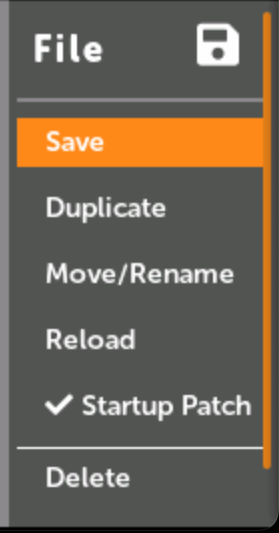
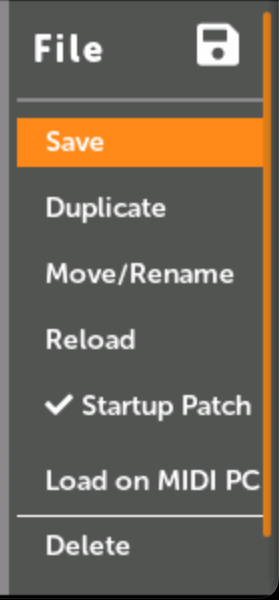
Add MIDI PC Patch Loading and bump version to v2.1.17

diff --git a/docs/using_metamodule_midi.md b/docs/using_metamodule_midi.md
@@ -179,6 +179,7 @@ You can patch MIDI signals to input jacks in two ways: using MIDI mappings, or u
 </div>
 
 ### Using the MIDI to CV module
+
 <div class="grid cards" markdown>
 -  __1. Add the MIDI to CV module from the RackCore brand__
 
@@ -340,4 +341,61 @@ MIDI Channel and CC# for Knob Set switching. See [Preferences](preferences.md).
 
 For more information about Knob Sets, see [Knob Sets](using_metamodule.md#knob-sets).
 
+
+---
+
+## Loading patches with MIDI Program Change
+
+You can load patches by sending MIDI Program Change (PC) messages. This lets you
+recall patches hands-free from a MIDI controller, sequencer, or DAW — useful for
+switching patches during a live performance.
+
+Each patch is assigned to a Program Change number (0–127) on a MIDI channel of
+your choosing. When the MetaModule receives a matching PC message, it loads that
+patch.
+
+<div class="grid cards" markdown>
+
+-  __1. Assign a patch to a PC number__
+
+    Open the patch you want to assign, click the file/disk icon to open the
+    [Patch File Menu](module_patch_settings.md#patch-file-menu), and select
+    **Load on MIDI PC**.
+
+    In the dialog that appears, choose a __PC #__ (0–127) and a __MIDI Channel__.
+    Set the channel to a specific channel (1–16), or to __Any__ to respond on all
+    channels. The dropdown shows which patch (if any) is already assigned to each
+    PC number, so you can avoid collisions.
+
+   [![Load on MIDI PC dialog](./img/midi-pc-assign-dialog.png){ .half }](./img/midi-pc-assign-dialog.png)
+
+</div>
+
+<div class="grid cards" markdown>
+
+-  __2. Enable MIDI PC Patch Load in the preferences__
+
+    Go to **Settings > Prefs ** and check "Enable" under
+    **MIDI PC PATCH LOAD**. This globally enables or disables the MIDI PC Patch
+    Load feature. See [Preferences](preferences.md).
+
+   [![MIDI PC Patch Load preference](./img/prefs-midi-pc-load.png){ .wide-240 }](./img/prefs-midi-pc-load.png)
+
+</div>
+
+Each patch can be assigned to one PC number. Assigning a patch to a PC number that
+is already in use will move the assignment to the new patch. To change a patch's
+assignment, open it and select **Load on MIDI PC** again.
+
+### Viewing PC assignments
+
+<div class="grid cards" markdown>
+- In **Settings > Prefs **, click **Show List** under MIDI PC PATCH LOAD to see
+  all current assignments, sorted by PC number. 
+
+    Clicking an entry views that patch.
+
+   [![MIDI PC Patch Load List](./img/midi-pc-load-list.png){ .half }](./img/midi-pc-load-list.png)
+
+</div>
 

diff --git a/docs/module_patch_settings.md b/docs/module_patch_settings.md
@@ -198,7 +198,7 @@ This option is disabled if both Show Control Maps and Show Panel Jack Maps are o
 -   [![Patch View Disk icon](./img/patch-view-file-icon.png){ .half }](./img/patch-view-file-icon.png)
 </div>
 <div class="grid cards" markdown>
--   Save, Duplicate, Move/Rename, Reload (or Revert), Startup Patch, Delete
+-   Save, Duplicate, Move/Rename, Reload (or Revert), Startup Patch, Load on MIDI PC, Delete
 
     
 -   [![File Menu](./img/file-menu-2.1.png){ .half }](./img/file-menu-2.1.png)
@@ -259,6 +259,16 @@ This option is disabled if both Show Control Maps and Show Panel Jack Maps are o
 
     You can see what patch is the startup patch, and/or disable any patch
     from playing at startup in the [Preferences](preferences.md).
+
+</div>
+<div class="grid cards" markdown>
+-   __Load on MIDI PC__: Assign this patch to a MIDI Program Change number
+  
+    Choose a PC number (0–127) and MIDI channel. When MIDI PC Patch Load is
+    enabled in the preferences, sending that Program Change message from a MIDI
+    controller will load this patch.
+
+    See [Loading patches with MIDI Program Change](using_metamodule_midi.md#loading-patches-with-midi-program-change).
 
 </div>
 <div class="grid cards" markdown>

diff --git a/docs/preferences.md b/docs/preferences.md
@@ -113,6 +113,20 @@
    [![MIDI Prefs](./img/prefs-midi.png){ .wide-240 }](./img/prefs-midi.png)
 </div>
 <div class="grid cards" markdown>
+-  __MIDI PC Patch Load__
+
+    When **Enable** is checked, incoming MIDI Program Change messages will load
+    patches that you've assigned to PC numbers. Assign a patch to a PC number
+    from the patch's File menu (see [Patch File Menu](module_patch_settings.md#patch-file-menu)).
+
+    Click **Show List** to view all current PC-to-patch assignments.
+
+    See [Loading patches with MIDI Program Change](using_metamodule_midi.md#loading-patches-with-midi-program-change).
+
+   [![MIDI PC Patch Load Prefs](./img/prefs-midi-pc-load.png){ .wide-240 }](./img/prefs-midi-pc-load.png)
+
+</div>
+<div class="grid cards" markdown>
 -  __MIDI Knob Set Select__
 
     **MIDI Knob Set Select** lets you change the active Knob Set with a
